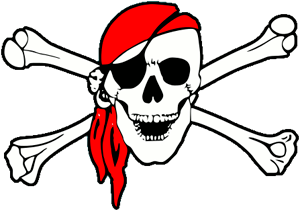
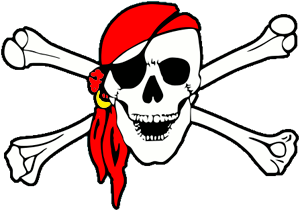
adding translations

Changed region(s): [[0.3, 0.3128, 0.39, 0.5118]]

diff --git a/src/App/View/emails/user_registration.php b/src/App/View/emails/user_registration.php
@@ -13,8 +13,8 @@
                     <table width="100%" border="0" cellspacing="0" cellpadding="0">
                         <tr>
                             <td class="padding" align="center">
-                                <a href="http://litmus.com" target="_blank">
-                                    <img src="/img/emails/pirateship.jpg" width="500" height="400" border="0" alt="Insert alt text here" style="display: block; color: #666666;  font-family: Helvetica, arial, sans-serif; font-size: 16px;" class="img-max">
+                                <a href="<?= $this->e($siteUrl) ;?>" target="_blank">
+                                    <img src="<?= $this->e($siteUrl) ;?>/img/emails/pirateship.jpg" width="400" height="164" border="0" alt="Insert alt text here" style="display: block; color: #666666;  font-family: Helvetica, arial, sans-serif; font-size: 16px;" class="img-max">
                                 </a>
                             </td>
                         </tr>
@@ -23,10 +23,10 @@
                                 <!-- COPY -->
                                 <table width="100%" border="0" cellspacing="0" cellpadding="0">
                                     <tr>
-                                        <td align="center" style="font-size: 25px; font-family: Helvetica, Arial, sans-serif; color: #333333; padding-top: 30px;" class="padding">Thanks for registering</td>
+                                        <td align="center" style="font-size: 25px; font-family: Helvetica, Arial, sans-serif; color: #333333; padding-top: 30px;" class="padding"><?= $this->t('email.user.register.thanks') ;?></td>
                                     </tr>
                                     <tr>
-                                        <td align="center" style="padding: 20px 0 0 0; font-size: 16px; line-height: 25px; font-family: Helvetica, Arial, sans-serif; color: #666666;" class="padding">You're one click away from awesome things! Follow the link to complete the registration process.</td>
+                                        <td align="center" style="padding: 20px 0 0 0; font-size: 16px; line-height: 25px; font-family: Helvetica, Arial, sans-serif; color: #666666;" class="padding"><?= $this->t('email.user.register.body') ;?></td>
                                     </tr>
                                 </table>
                             </td>
@@ -40,7 +40,7 @@
                                             <table border="0" cellspacing="0" cellpadding="0" class="mobile-button-container">
                                                 <tr>
                                                     <td align="center" style="border-radius: 3px;" bgcolor="#256F9C">
-                                                        <a href="https://litmus.com" target="_blank" style="font-size: 16px; font-family: Helvetica, Arial, sans-serif; color: #ffffff; text-decoration: none; border-radius: 3px; padding: 15px 25px; border: 1px solid #256F9C; display: inline-block;" class="mobile-button">Activate your account &rarr;</a></td>
+                                                        <a href="<?= $this->e($siteUrl . $activationLink) ;?>" target="_blank" style="font-size: 16px; font-family: Helvetica, Arial, sans-serif; color: #ffffff; text-decoration: none; border-radius: 3px; padding: 15px 25px; border: 1px solid #256F9C; display: inline-block;" class="mobile-button"><?= $this->t('email.user.register.button') ;?> &rarr;</a></td>
                                                 </tr>
                                             </table>
                                         </td>

diff --git a/src/App/View/emails/layout.php b/src/App/View/emails/layout.php
@@ -112,7 +112,7 @@
             <table border="0" cellpadding="0" cellspacing="0" width="100%" style="max-width: 500px;" class="wrapper">
                 <tr>
                     <td align="center" valign="top" style="padding: 15px 0;" class="logo">
-                        <a href="http://litmus.com" target="_blank">
+                        <a href="<?= $this->e($siteUrl) ;?>" target="_blank">
                             <img alt="Logo" src="/img/emails/logo.jpg" width="60" height="60" style="display: block; font-family: Helvetica, Arial, sans-serif; color: #ffffff; font-size: 16px;" border="0">
                         </a>
                     </td>
@@ -141,9 +141,9 @@
                     <td align="center" style="font-size: 12px; line-height: 18px; font-family: Helvetica, Arial, sans-serif; color:#666666;">
                         1234 Main Street, Anywhere, MA 01234, USA
                         <br>
-                        <a href="http://litmus.com" target="_blank" style="color: #666666; text-decoration: none;">Unsubscribe</a>
+                        <a href="<?= $this->e($siteUrl) ;?>" target="_blank" style="color: #666666; text-decoration: none;">Unsubscribe</a>
                         <span style="font-family: Arial, sans-serif; font-size: 12px; color: #444444;">&nbsp;&nbsp;|&nbsp;&nbsp;</span>
-                        <a href="http://litmus.com" target="_blank" style="color: #666666; text-decoration: none;">View this email in your browser</a>
+                        <a href="<?= $this->e($siteUrl) ;?>" target="_blank" style="color: #666666; text-decoration: none;">View this email in your browser</a>
                     </td>
                 </tr>
             </table>

diff --git a/src/App/Controller/UserController.php b/src/App/Controller/UserController.php
@@ -283,10 +283,6 @@ END;
                     $mail->setFrom('noreply@' . $env->getServerName())
                         ->setTo($user->getEmail())
                         ->setSubject('Thank you for registering with ' . Registry::ahoy()->get('site')['name'])
-                        ->setHeader('MAIL HEADER')
-//                        ->setHeader(Template::getHeader())
-                        ->setFooter('MAIL FOOTER')
-//                        ->setFooter(Template::getFooter())
                         ->setMessage($message)
                         ->send();
                     $this->sendJsonObjectResponse($link);

diff --git a/src/App/Controller/IndexController.php b/src/App/Controller/IndexController.php
@@ -2,6 +2,7 @@
 
 namespace App\Controller;
 
+use Bone\Mvc\Registry;
 use DateTime;
 use Swagger;
 use Zend\Diactoros\Response;
@@ -66,9 +67,10 @@ class IndexController extends BaseController
 
     public function emailAction()
     {
-        $this->enableView();
-
-        $reg = $this->getViewEngine()->render('emails/user_registration');
+        $reg = $this->getViewEngine()->render('emails/user_registration', [
+            'siteUrl' => $this->getServerEnvironment()->getSiteURL(),
+            'activationLink' => '/user/activate/fhd@hgf.net/dhfdhfddhfdh',
+        ]);
         echo $reg; exit;
     }
 }
